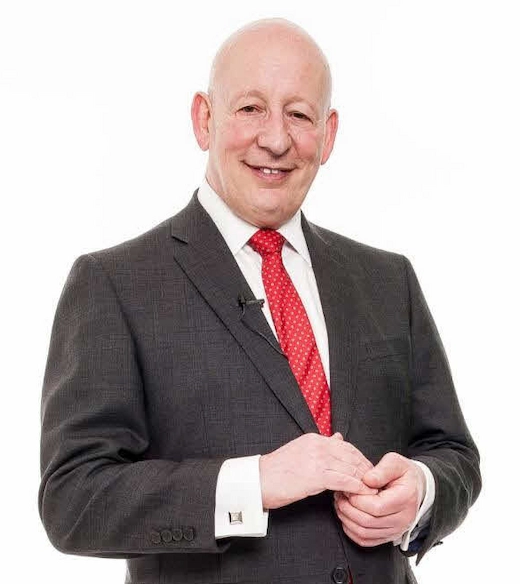
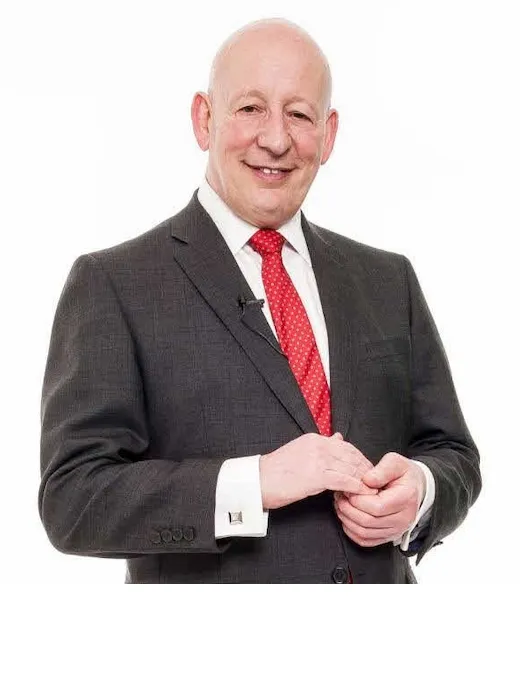
Updated

diff --git a/personal-too-much-debt.html b/personal-too-much-debt.html
@@ -206,35 +206,36 @@ a:hover{color:var(--site-teal-dk);text-decoration:underline;}
 .slide-form-wrap--light .cf-success-msg{color:var(--site-navy);}
 
 /* ── Outcomes section ── */
-.outcomes-section{padding:52px 0;background:var(--site-offwhite);border-top:1px solid var(--site-border);border-bottom:1px solid var(--site-border);}
+.outcomes-section{padding:52px 0;background:var(--site-teal);}
 .outcomes-inner{max-width:var(--max-w);margin:0 auto;padding:0 24px;display:grid;grid-template-columns:1fr 1fr;gap:48px;align-items:start;}
-.outcomes-bullets .section-label{color:var(--site-teal);}
-.outcomes-bullets .section-h2{color:var(--site-navy);margin-bottom:16px;}
+.outcomes-bullets .section-label{color:var(--site-accent);}
+.outcomes-bullets .section-h2{color:white;margin-bottom:8px;}
+.outcomes-intro{font-size:0.97rem;color:rgba(255,255,255,0.85);line-height:1.75;margin-bottom:24px;}
+.outcomes-landscape{background:rgba(255,255,255,0.12);border-radius:6px;padding:20px 22px;margin-top:24px;}
+.outcomes-landscape p{font-size:0.88rem;color:rgba(255,255,255,0.9);line-height:1.75;margin:0;}
 /* Toggle button — hidden on desktop, shown on mobile */
-.outcomes-toggle-btn{display:none;background:none;border:none;cursor:pointer;font-family:'Lato',sans-serif;font-size:0.92rem;font-weight:700;color:var(--site-teal);padding:0 0 20px 0;align-items:center;gap:8px;min-height:44px;}
-.otb-icon{width:22px;height:22px;border-radius:50%;background:var(--site-light);color:var(--site-teal);font-size:1rem;font-weight:700;display:inline-flex;align-items:center;justify-content:center;transition:transform 0.25s,background 0.15s;flex-shrink:0;}
-.outcomes-toggle-btn[aria-expanded="true"] .otb-icon{transform:rotate(45deg);background:var(--site-teal);color:white;}
 /* List always visible on desktop */
-.outcomes-list-wrap{display:block;}
 .outcomes-list{list-style:none;}
-.outcomes-list li{display:flex;gap:14px;align-items:flex-start;padding:12px 0;border-bottom:1px solid var(--site-border);font-size:0.97rem;color:var(--site-text);line-height:1.65;}
+.outcomes-list li{display:flex;gap:14px;align-items:flex-start;padding:14px 0;border-bottom:1px solid rgba(255,255,255,0.18);line-height:1.65;}
 .outcomes-list li:last-child{border-bottom:none;padding-bottom:0;}
 .outcomes-list li:first-child{padding-top:0;}
+.outcomes-list-title{font-size:0.95rem;font-weight:700;color:white;display:block;margin-bottom:4px;}
+.outcomes-list-body{font-size:0.88rem;color:rgba(255,255,255,0.82);line-height:1.7;display:block;}
 .outcome-tick{width:22px;height:22px;border-radius:50%;background:var(--site-teal);color:white;font-size:0.7rem;font-weight:900;display:inline-flex;align-items:center;justify-content:center;flex-shrink:0;margin-top:2px;}
 .outcomes-list li:last-child .outcome-tick{background:var(--site-accent);}
 
 /* ── Featured case card ── */
 .outcomes-case{display:flex;flex-direction:column;gap:0;}
-.featured-case-card{background:var(--site-navy);border-top:3px solid var(--site-teal);border-radius:6px;padding:28px 24px;text-decoration:none;display:flex;flex-direction:column;gap:10px;transition:box-shadow 0.2s,transform 0.2s;}
-.featured-case-card:hover{box-shadow:0 6px 28px rgba(0,0,0,0.28);transform:translateY(-2px);text-decoration:none;}
-.featured-case-label{font-size:0.67rem;font-weight:700;letter-spacing:0.08em;text-transform:uppercase;color:var(--site-teal);}
+.featured-case-card{background:var(--site-navy);border-top:3px solid var(--site-accent);border-radius:6px;padding:28px 24px;text-decoration:none;display:flex;flex-direction:column;gap:10px;transition:box-shadow 0.2s,transform 0.2s;}
+.featured-case-card:hover{box-shadow:0 6px 28px rgba(0,0,0,0.4);transform:translateY(-2px);text-decoration:none;}
+.featured-case-label{font-size:0.67rem;font-weight:700;letter-spacing:0.08em;text-transform:uppercase;color:var(--site-accent);}
 .featured-case-title{font-family:'Merriweather',serif;font-size:1.05rem;font-weight:700;color:white;line-height:1.45;}
 .featured-case-soundbite{font-size:0.88rem;font-style:italic;color:rgba(255,255,255,0.65);line-height:1.65;}
 .featured-case-outcomes{list-style:none;margin-top:12px;border-top:1px solid rgba(255,255,255,0.12);padding-top:12px;display:flex;flex-direction:column;gap:7px;}
 .featured-case-outcomes li{display:flex;gap:10px;align-items:flex-start;font-size:0.85rem;color:rgba(255,255,255,0.88);line-height:1.5;}
 .fco-tick{width:18px;height:18px;border-radius:50%;background:var(--site-accent);color:var(--site-navy);font-size:0.65rem;font-weight:900;display:inline-flex;align-items:center;justify-content:center;flex-shrink:0;margin-top:1px;}
 .featured-case-read{font-size:0.88rem;font-weight:700;color:var(--site-accent);margin-top:6px;padding-top:6px;display:flex;align-items:center;gap:5px;min-height:44px;}
-.featured-case-pa{margin-top:14px;font-size:0.82rem;color:var(--site-muted);font-style:italic;padding-top:14px;border-top:1px solid var(--site-border);}
+.featured-case-pa{margin-top:14px;font-size:0.82rem;color:rgba(255,255,255,0.5);font-style:italic;padding-top:14px;border-top:1px solid rgba(255,255,255,0.12);}
 .outcomes-card-cta{margin-top:16px;}
 
 /* ── How it works — 4 step cards ── */
@@ -389,6 +390,20 @@ a:hover{color:var(--site-teal-dk);text-decoration:underline;}
 /* ── Animations ── */
 @keyframes fadeUp{from{opacity:0;transform:translateY(12px);}to{opacity:1;transform:translateY(0);}}
 
+/* ── Lightside Service section ── */
+.support-section{background:var(--site-teal);border-radius:8px;padding:36px 36px 32px;margin-bottom:44px;}
+.support-section .section-label{color:var(--site-accent);}
+.support-section h2{font-family:'Merriweather',serif;font-size:1.35rem;font-weight:700;color:white;margin-bottom:20px;line-height:1.3;}
+.support-pillars{display:grid;grid-template-columns:repeat(3,1fr);gap:16px;margin-bottom:24px;}
+.support-pillar{background:rgba(255,255,255,0.12);border-top:3px solid var(--site-accent);border-radius:6px;padding:20px 18px;}
+.support-pillar strong{display:block;font-size:0.92rem;font-weight:700;color:white;margin-bottom:8px;line-height:1.3;}
+.support-pillar p{font-size:0.87rem;color:rgba(255,255,255,0.88);line-height:1.65;margin:0;}
+.support-lead{font-size:1rem;color:rgba(255,255,255,0.95);line-height:1.8;margin-bottom:24px;border-left:4px solid var(--site-accent);padding-left:18px;}
+.support-stakes{background:rgba(255,255,255,0.12);border-radius:6px;padding:20px 22px;margin-bottom:0;}
+.support-stakes p{font-size:0.95rem;color:rgba(255,255,255,0.95);line-height:1.75;margin:0;}
+.support-stakes strong{color:white;}
+@media(max-width:760px){.support-pillars{grid-template-columns:1fr;}}
+
 /* ── Responsive ── */
 
 /* ── Hero icon (desktop only) ── */
@@ -422,9 +437,7 @@ a:hover{color:var(--site-teal-dk);text-decoration:underline;}
   .nav-cta{margin:6px 16px 10px!important;border-radius:4px!important;text-align:center;}
   .hamburger{display:flex;}
   /* Outcomes — toggle on mobile */
-  .outcomes-toggle-btn{display:flex;}
-  .outcomes-list-wrap{display:none;}
-  .outcomes-list-wrap.open{display:block;}
+
   /* Inline CTA — centre on mobile */
   .inline-cta{flex-direction:column;gap:20px;}
   .inline-cta-btns{width:100%;}
@@ -719,19 +732,54 @@ a:hover{color:var(--site-teal-dk);text-decoration:underline;}
 
     <div class="outcomes-bullets">
       <div class="section-label">The difference we make</div>
-      <h2 class="section-h2" id="outcomes-heading">Here is what often becomes possible</h2>
-      <button type="button" class="outcomes-toggle-btn" id="outcomes-toggle" aria-expanded="false" aria-controls="outcomes-list-wrap">
-        Show what we can achieve <span class="otb-icon" aria-hidden="true">+</span>
-      </button>
-      <div class="outcomes-list-wrap" id="outcomes-list-wrap">
-        <ul class="outcomes-list">
-          <li><span class="outcome-tick" aria-hidden="true">&#10003;</span>Interest and charges can often be frozen &mdash; stopping the debt from growing.</li>
-          <li><span class="outcome-tick" aria-hidden="true">&#10003;</span>Repayments can be restructured to something you can actually sustain.</li>
-          <li><span class="outcome-tick" aria-hidden="true">&#10003;</span>Creditor calls, letters and legal threats can often be stopped &mdash; redirected to us instead.</li>
-          <li><span class="outcome-tick" aria-hidden="true">&#10003;</span>In some cases debt can be settled for less than the full amount &mdash; or written off entirely.</li>
-          <li><span class="outcome-tick" aria-hidden="true">&#10003;</span>The family home is rarely at risk &mdash; and establishing that is the first thing we do.</li>
-          <li><span class="outcome-tick" aria-hidden="true">&#9654;</span>The road isn&rsquo;t always smooth. But we know where the potholes are &mdash; and we&rsquo;ll be alongside you for every stretch of it.</li>
-        </ul>
+      <h2 class="section-h2" id="outcomes-heading">What we actually do &mdash; and what that makes possible</h2>
+      <p class="outcomes-intro">Most people contact us not knowing what can be achieved. Here is what we do, and what it typically produces.</p>
+      <ul class="outcomes-list">
+        <li>
+          <span class="outcome-tick" aria-hidden="true">&#10003;</span>
+          <span>
+            <span class="outcomes-list-title">We negotiate directly with every creditor</span>
+            <span class="outcomes-list-body">We contact each creditor, their agents, solicitors, or whoever has purchased the debt. We deal with them so you don&rsquo;t have to. Calls and letters stop coming to you and come to us instead.</span>
+          </span>
+        </li>
+        <li>
+          <span class="outcome-tick" aria-hidden="true">&#10003;</span>
+          <span>
+            <span class="outcomes-list-title">We push for interest and charges to be frozen &mdash; and we get it confirmed in writing</span>
+            <span class="outcomes-list-body">Frozen interest means your payments actually reduce what you owe. We push for this on every account, chase it tenaciously, and don&rsquo;t accept a verbal agreement &mdash; we get written confirmation. Note: this is not possible on loans, where interest is front-loaded, but we factor that in when structuring the plan.</span>
+          </span>
+        </li>
+        <li>
+          <span class="outcome-tick" aria-hidden="true">&#10003;</span>
+          <span>
+            <span class="outcomes-list-title">We stay on top of debt as it moves</span>
+            <span class="outcomes-list-body">Debt is frequently sold between agencies and collectors. An agreement reached with one organisation doesn&rsquo;t always follow it. We track movement, re-establish arrangements when needed, and ensure nothing slips through the gaps.</span>
+          </span>
+        </li>
+        <li>
+          <span class="outcome-tick" aria-hidden="true">&#10003;</span>
+          <span>
+            <span class="outcomes-list-title">We know which correspondence is urgent and which is noise</span>
+            <span class="outcomes-list-body">The letters with red ink and capital letters are often the least urgent. The ones that need immediate action are frequently the plain ones in blue &mdash; because those are court forms. We read everything and tell you what matters.</span>
+          </span>
+        </li>
+        <li>
+          <span class="outcome-tick" aria-hidden="true">&#10003;</span>
+          <span>
+            <span class="outcomes-list-title">We use Breathing Space strategically to buy time</span>
+            <span class="outcomes-list-body">The Debt Respite Scheme pauses all creditor enforcement for 60 days. We use this as a tactical tool &mdash; creating the space to prepare a proper plan, prevent CCJs, and bring creditors to the table on better terms. You cannot apply for Breathing Space yourself; we can.</span>
+          </span>
+        </li>
+        <li>
+          <span class="outcome-tick" aria-hidden="true">&#10003;</span>
+          <span>
+            <span class="outcomes-list-title">Where the numbers support it, we negotiate partial settlements</span>
+            <span class="outcomes-list-body">When a creditor will move, we pursue settlement below the face value of the debt. We produce the financial statement, make the proposal, follow it up verbally, and handle counter-proposals. Debt written off this way is gone &mdash; you are no longer pursued for it.</span>
+          </span>
+        </li>
+      </ul>
+      <div class="outcomes-landscape">
+        <p>The road isn&rsquo;t always smooth &mdash; creditors push back, debt moves, and some accounts take longer than others. We know where the pressure points are, we keep pushing, and we stay alongside you for every stretch of it. If circumstances change and a different solution becomes appropriate &mdash; including bankruptcy &mdash; we will tell you clearly and help you make that decision.</p>
       </div>
     </div>
 
@@ -751,6 +799,30 @@ a:hover{color:var(--site-teal-dk);text-decoration:underline;}
       <div class="outcomes-card-cta">
         <a href="tel:01275859143" class="btn-primary">Call 01275 859143</a>
       </div>
+      <a href="can-i-settle-my-debts-for-less.html" class="featured-case-card" aria-label="Read Mr. N's story" style="margin-top:16px;">
+        <div class="featured-case-label">Personal &mdash; Too Much Debt</div>
+        <h3 class="featured-case-title">Over &pound;50,000 of Debt Settled for Less Than 50%</h3>
+        <p class="featured-case-soundbite">&ldquo;70% of my minimum payment was just going on interest. Four years later I was in exactly the same position &mdash; just more tired of it.&rdquo;</p>
+        <ul class="featured-case-outcomes" aria-label="Key outcomes">
+          <li><span class="fco-tick" aria-hidden="true">&#10003;</span>Full and final settlement agreed with every creditor</li>
+          <li><span class="fco-tick" aria-hidden="true">&#10003;</span>Over &pound;35,000 written off &mdash; paid just over &pound;15,000</li>
+          <li><span class="fco-tick" aria-hidden="true">&#10003;</span>Timed around a simultaneous property purchase</li>
+        </ul>
+        <span class="featured-case-read" aria-hidden="true">Read Mr. N&rsquo;s story &rarr;</span>
+      </a>
+      <p class="featured-case-pa">Referred by Andrew Rhodes, Partner, Sobell Rhodes Accountants.</p>
+      <a href="separation-divorce-too-much-debt.html" class="featured-case-card" aria-label="Read Ms. JJ's story" style="margin-top:16px;">
+        <div class="featured-case-label">Personal &mdash; Too Much Debt</div>
+        <h3 class="featured-case-title">Feeling Overwhelmed Dealing with the Debt &mdash; Lightside Helped To Find Space</h3>
+        <p class="featured-case-soundbite">&ldquo;The calls were relentless. I couldn&rsquo;t sleep because of anxiety I felt in the pit of my stomach.&rdquo;</p>
+        <ul class="featured-case-outcomes" aria-label="Key outcomes">
+          <li><span class="fco-tick" aria-hidden="true">&#10003;</span>All creditor calls and letters stopped</li>
+          <li><span class="fco-tick" aria-hidden="true">&#10003;</span>Law and commercial reality explained clearly</li>
+          <li><span class="fco-tick" aria-hidden="true">&#10003;</span>Peace of mind restored &mdash; three crises, one solution</li>
+        </ul>
+        <span class="featured-case-read" aria-hidden="true">Read Ms. JJ&rsquo;s story &rarr;</span>
+      </a>
+      <p class="featured-case-pa">Referred by her divorce solicitor.</p>
     </div>
 
   </div>
@@ -793,150 +865,6 @@ a:hover{color:var(--site-teal-dk);text-decoration:underline;}
     <div class="testimonial-block">
       <blockquote>&ldquo;At a very difficult and dark time, Lightside literally saved my life.&rdquo;</blockquote>
       <div class="testimonial-attr">Ms. J &mdash; client, referred by her solicitor. <a href="testimonials.html">Read more testimonials &rarr;</a></div>
-    </div>
-  </div>
-</section>
-
-<!-- ═══════ CASE STUDIES ═══════ -->
-<section class="cases-section" aria-labelledby="cases-heading">
-  <div class="cases-inner">
-    <div class="section-label">Real cases</div>
-    <h2 class="section-h2" id="cases-heading">How we have helped people through too much debt</h2>
-    <p class="section-sub">Every situation is different. These are real cases &mdash; anonymised &mdash; showing the range of what we deal with and what becomes possible.</p>
-    <div class="cases-grid" id="cases-grid">
-      <div class="case-card">
-        <div class="case-card-hdr">
-          <div class="case-card-meta">
-            <div class="case-card-eyebrow">Personal &mdash; Too Much Debt</div>
-            <div class="case-card-title">Feeling Overwhelmed Dealing with the Debt &mdash; Lightside Helped To Find Space</div>
-            <div class="case-card-ref">Ms. JJ &mdash; three crises in three months, creditor calls stopped</div>
-          </div>
-          <div class="case-stamp">
-            <span class="case-stamp-val">Control</span>
-            <span class="case-stamp-lbl">Peace of Mind</span>
-          </div>
-        </div>
-        <div class="case-body" id="case-body-1">
-          <div class="case-body-inner">
-            <div class="case-section-lbl">The Situation</div>
-            <div class="case-sit"><p>&ldquo;The calls were relentless. I couldn&rsquo;t sleep because of anxiety I felt in the pit of my stomach.&rdquo;</p></div>
-            <div class="case-section-lbl">What We Did</div>
-            <div class="case-sol"><p>Ms. JJ was anxious and worried about the advice she had already received. She had tried to engage with creditors but the letters and calls didn&rsquo;t stop. We advised, differentiating between the law and commercial reality. We took over dealing with her lenders; the calls stopped, the letters reduced. Ms. JJ knew we could be relied upon, and she got back her peace of mind.</p></div>
-            <div class="case-attribution">Adviser: Priti Shah. Referred by her divorce solicitor.</div>
-          </div>
-        </div>
-        <div class="case-footer">
-          <button type="button" class="case-toggle-btn" aria-expanded="false" aria-controls="case-body-1" data-case-toggle>Read more <span class="toggle-chevron" aria-hidden="true">&#9660;</span></button>
-          <a href="separation-divorce-too-much-debt.html" class="case-read-link">Full case &rarr;</a>
-        </div>
-      </div>
-      <div class="case-card">
-        <div class="case-card-hdr">
-          <div class="case-card-meta">
-            <div class="case-card-eyebrow">Personal &mdash; Too Much Debt</div>
-            <div class="case-card-title">Over &pound;50,000 of Debt Settled for Less Than 50%</div>
-            <div class="case-card-ref">Mr. N &mdash; negotiated settlement, property purchase supported</div>
-          </div>
-          <div class="case-stamp">
-            <span class="case-stamp-val">70% Saved</span>
-            <span class="case-stamp-lbl">Debt Free</span>
-          </div>
-        </div>
-        <div class="case-body" id="case-body-2">
-          <div class="case-body-inner">
-            <div class="case-section-lbl">The Situation</div>
-            <div class="case-sit"><p>&ldquo;The debt built up across credit cards and personal loans, and for a long time I told myself I was managing. But in reality, I wasn&rsquo;t; 70% of my minimum payment was just going on interest!&rdquo;</p></div>
-            <div class="case-section-lbl">What We Did</div>
-            <div class="case-sol"><p>Mr. N had been in a debt management plan for some time but there was no strategy behind it &mdash; the balances on his credit cards and personal loans barely moved month to month. We identified that the right route was a negotiated full and final settlement rather than continued servicing, and assessed each creditor individually for their likely appetite for discount. Each settlement was confirmed in writing before any payment was made, and we carefully sequenced the creditor negotiations around a simultaneous property purchase so the debt resolution supported rather than disrupted the conveyancing. Mr. N paid just over &pound;15,000 in settlement of liabilities exceeding &pound;50,000 &mdash; his home was not at risk at any point &mdash; and now carries only his mortgage and one credit card he clears in full each month.</p></div>
-            <div class="case-attribution">Adviser: Priti Shah. Referred by Andrew Rhodes, Partner, Sobell Rhodes Accountants.</div>
-          </div>
-        </div>
-        <div class="case-footer">
-          <button type="button" class="case-toggle-btn" aria-expanded="false" aria-controls="case-body-2" data-case-toggle>Read more <span class="toggle-chevron" aria-hidden="true">&#9660;</span></button>
-          <a href="can-i-settle-my-debts-for-less.html" class="case-read-link">Full case &rarr;</a>
-        </div>
-      </div>
-      <div class="case-card">
-        <div class="case-card-hdr">
-          <div class="case-card-meta">
-            <div class="case-card-eyebrow">Personal &mdash; Too Much Debt</div>
-            <div class="case-card-title">Temporary Financial Blips are Fine &mdash; But Not When They Become Ongoing</div>
-            <div class="case-card-ref">Mr. &amp; Mrs. V &mdash; bailiff stopped, creditor arrangement restored control</div>
-          </div>
-          <div class="case-stamp">
-            <span class="case-stamp-val">Bailiff stopped</span>
-            <span class="case-stamp-lbl">Arrangement</span>
-          </div>
-        </div>
-        <div class="case-body" id="case-body-3">
-          <div class="case-body-inner">
-            <div class="case-section-lbl">The Situation</div>
-            <div class="case-sit"><p>&ldquo;We were using credit cards to fill the gaps. Not for luxuries &mdash; just to get through the month. The balances kept growing, and I felt completely overwhelmed.&rdquo;</p></div>
-            <div class="case-section-lbl">What We Did</div>
-            <div class="case-sol"><p>Mr. and Mrs. V were behind on their commitments, had not identified which debts were priority debts, and were relying on credit to maintain day-to-day affordability. A bailiff had come to the door. We reviewed their income and expenditure, separated priority from non-priority debt, and put a Creditor Arrangement in place &mdash; stopping interest and charges across all creditors, redirecting all creditor contact through Lightside, and agreeing affordable repayments structured around their actual income. The bailiff action stopped. Council Tax was brought up to date. For the first time in a long time, Mr. and Mrs. V felt financial stability rather than month-to-month crisis.</p></div>
-            <div class="case-attribution">Adviser: Priti Shah. Referred by Lorraine Sellwood, IFA, Phase 8 Ltd.</div>
-          </div>
-        </div>
-        <div class="case-footer">
-          <button type="button" class="case-toggle-btn" aria-expanded="false" aria-controls="case-body-3" data-case-toggle>Read more <span class="toggle-chevron" aria-hidden="true">&#9660;</span></button>
-          <a href="debt-growing-despite-making-payments.html" class="case-read-link">Full case &rarr;</a>
-        </div>
-      </div>
-      <div class="case-card hidden-case">
-        <div class="case-card-hdr">
-          <div class="case-card-meta">
-            <div class="case-card-eyebrow">Personal &mdash; Too Much Debt</div>
-            <div class="case-card-title">Using One Card to Pay Another &mdash; Trapped in a Debt Cycle</div>
-            <div class="case-card-ref">Ms. J &mdash; credit card spiral, interest frozen, cycle broken</div>
-          </div>
-          <div class="case-stamp">
-            <span class="case-stamp-val">Cycle broken</span>
-            <span class="case-stamp-lbl">Interest frozen</span>
-          </div>
-        </div>
-        <div class="case-body" id="case-body-4">
-          <div class="case-body-inner">
-            <div class="case-section-lbl">The Situation</div>
-            <div class="case-sit"><p>&ldquo;I was doing everything I was supposed to do &mdash; making all the payments &mdash; but the debt wasn&rsquo;t going down. If anything, it was creeping up. Four years later, I was in exactly the same position, just more tired of it.&rdquo;</p></div>
-            <div class="case-section-lbl">What We Did</div>
-            <div class="case-sol"><p>Ms. J had a decent salary and had never missed a payment &mdash; the problem was that her repayments were not reducing the debt. We reviewed her full financial position and each creditor individually, then approached them directly with a creditor arrangement based on payments she could sustainably afford rather than minimums driven by interest. A freeze on interest and charges across all accounts was negotiated, so that from that point every payment reduced the actual balance rather than servicing it. We took over all creditor communication. The debt cycle was broken, a clear end date established, and Ms. J&rsquo;s mortgage position was protected throughout.</p></div>
-            <div class="case-attribution">Adviser: Priti Shah. Referred by Tony Balzan, CeMap Mortgage Adviser, One Stop Finance Ltd.</div>
-          </div>
-        </div>
-        <div class="case-footer">
-          <button type="button" class="case-toggle-btn" aria-expanded="false" aria-controls="case-body-4" data-case-toggle>Read more <span class="toggle-chevron" aria-hidden="true">&#9660;</span></button>
-          <a href="stuck-in-debt-cycle-using-credit-to-pay-credit.html" class="case-read-link">Full case &rarr;</a>
-        </div>
-      </div>
-      <div class="case-card hidden-case">
-        <div class="case-card-hdr">
-          <div class="case-card-meta">
-            <div class="case-card-eyebrow">Personal &mdash; Too Much Debt</div>
-            <div class="case-card-title">Personal Guarantee Called In &mdash; Debt Growing, Home &amp; Family Impacted</div>
-            <div class="case-card-ref">Mr. &amp; Mrs. C &mdash; bankruptcy halted, over &pound;50,000 resolved</div>
-          </div>
-          <div class="case-stamp">
-            <span class="case-stamp-val">Bktcy halted</span>
-            <span class="case-stamp-lbl">Charge agreed</span>
-          </div>
-        </div>
-        <div class="case-body" id="case-body-5">
-          <div class="case-body-inner">
-            <div class="case-section-lbl">The Situation</div>
-            <div class="case-sit"><p>&ldquo;I&rsquo;d been paying my debts but in 5 years they had not shrunk. Then the business closed. I couldn&rsquo;t pay the credit cards. A personal guarantee creditor came straight for us, and bankruptcy was the word I couldn&rsquo;t stop turning over.&rdquo;</p></div>
-            <div class="case-section-lbl">What We Did</div>
-            <div class="case-sol"><p>We treated the personal and business debt as one picture rather than two. The personal guarantee was the immediate pressure point &mdash; the creditor was preparing bankruptcy proceedings. We negotiated a voluntary charge on the family home, which gave the creditor the security they needed to stand down from formal action. The bankruptcy threat was removed and the home was protected. We then brought over &pound;50,000 of personal credit card and loan debt into a single coordinated Creditor Arrangement, took over all creditor communication, and structured the co-director&rsquo;s share of the guaranteed debt separately. Mr C has since relaunched his business.</p></div>
-            <div class="case-attribution">Adviser: Priti Shah. Referred by an insolvency practitioner.</div>
-          </div>
-        </div>
-        <div class="case-footer">
-          <button type="button" class="case-toggle-btn" aria-expanded="false" aria-controls="case-body-5" data-case-toggle>Read more <span class="toggle-chevron" aria-hidden="true">&#9660;</span></button>
-          <a href="i-need-help-pg-personal-guarantee.html" class="case-read-link">Full case &rarr;</a>
-        </div>
-      </div>
-    </div>
-    <div class="cases-toggle-wrap">
-      <button type="button" id="cases-toggle-btn" aria-expanded="false">Show more cases</button>
     </div>
   </div>
 </section>
@@ -1385,27 +1313,6 @@ initForm('footer-form-toggle','footer-contact-form','footer-form','footer-error'
         var top=wrapper.getBoundingClientRect().top+window.pageYOffset-offset;
         window.scrollTo({top:top,behavior:'smooth'});
       },80);
-    }
-  });
-})();
-
-/* ── Outcomes collapsible (mobile only) ── */
-(function(){
-  var btn=document.getElementById('outcomes-toggle');
-  var panel=document.getElementById('outcomes-list-wrap');
-  if(!btn||!panel)return;
-  btn.addEventListener('click',function(){
-    var open=panel.classList.toggle('open');
-    btn.setAttribute('aria-expanded',String(open));
-    btn.querySelector('.otb-icon').textContent=open?'\u00d7':'+';
-    btn.childNodes[0].textContent=open?'Hide outcomes\u00a0':'Show what we can achieve\u00a0';
-  });
-  window.addEventListener('resize',function(){
-    if(window.innerWidth>680){
-      panel.classList.remove('open');
-      btn.setAttribute('aria-expanded','false');
-      btn.querySelector('.otb-icon').textContent='+';
-      btn.childNodes[0].textContent='Show what we can achieve\u00a0';
     }
   });
 })();
